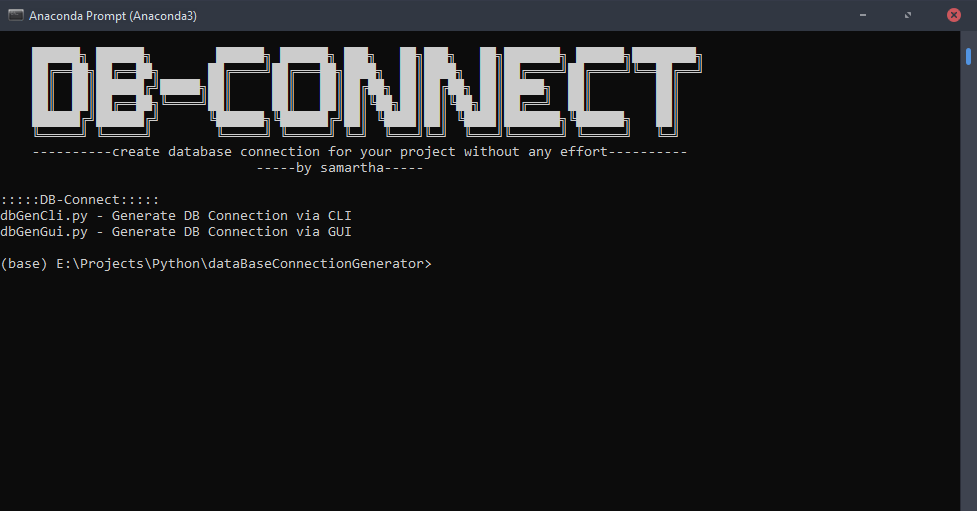
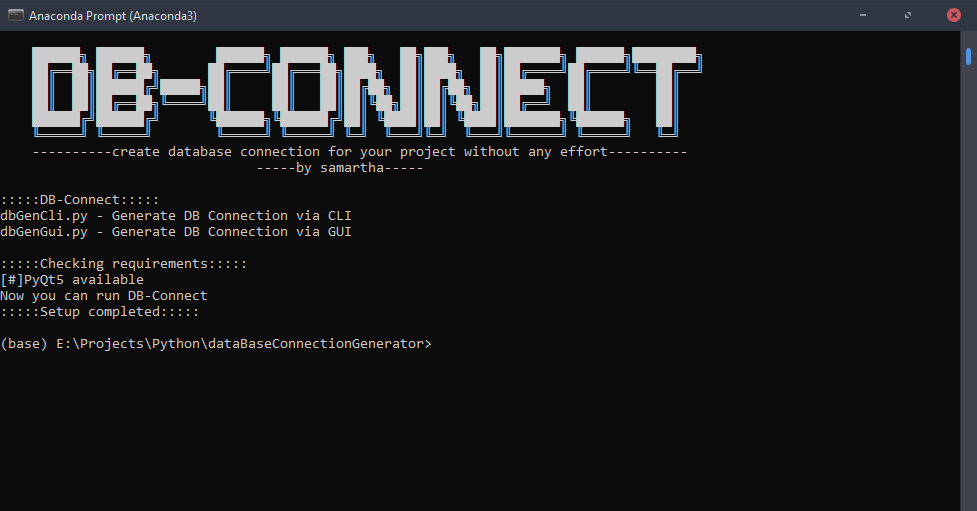
v1.1

Changed region(s): [[0.0, 0.499, 0.4299, 0.6164], [0.0, 0.6458, 0.4299, 0.7045]]

diff --git a/setup.py b/setup.py
@@ -15,4 +15,30 @@ banner="""
 print(banner)
 print(':::::DB-Connect:::::')
 print('dbGenCli.py - Generate DB Connection via CLI')
-print('dbGenGui.py - Generate DB Connection via GUI')
+print('dbGenGui.py - Generate DB Connection via GUI\n')
+print(':::::Checking requirements:::::')
+flag=0
+try:
+    import PyQt5
+    print('[#]PyQt5 available')
+    flag=1
+except ImportError as e:
+    print(e)
+    install=input('Do you want to download and install PyQt5 module? (y/n)')
+    if install=='y':
+        try:
+            os.system('pip install PyQt5')
+            print('Installation success')
+            flag=1
+        except Exception as e:
+            print(e)
+            print('Unable to install PyQt5. Try later manually')
+            flag=0
+        else:
+            flag=0
+if flag==0:
+    print('Unable to DB-Connect')
+    print(':::::Setup Failed:::::')
+else:
+    print('Now you can run DB-Connect')
+    print(':::::Setup completed:::::')
